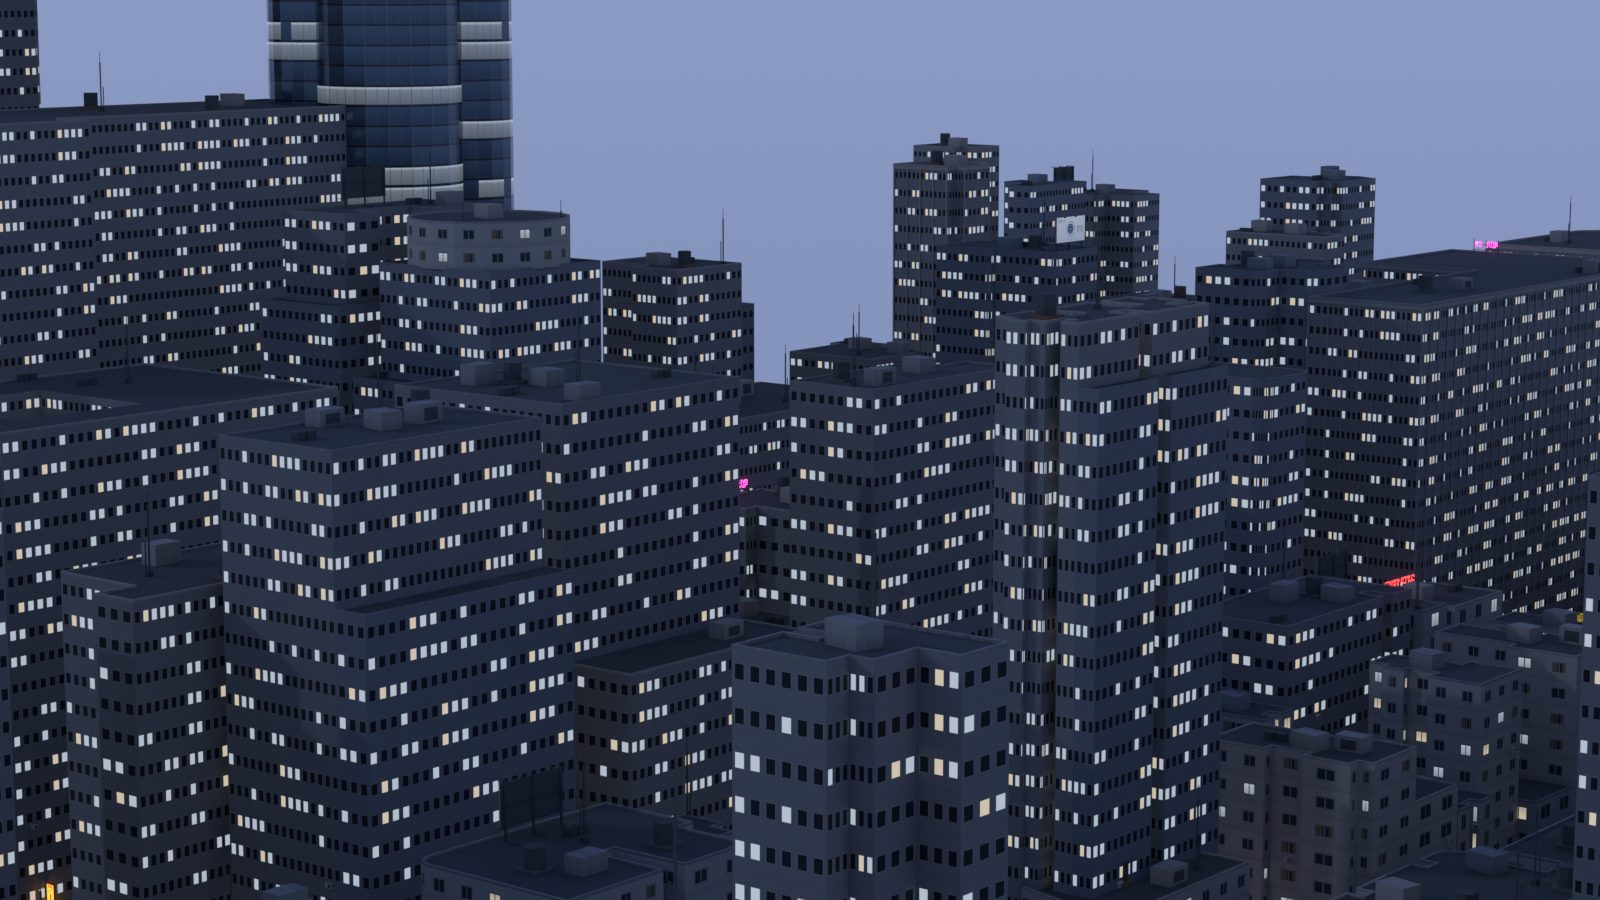
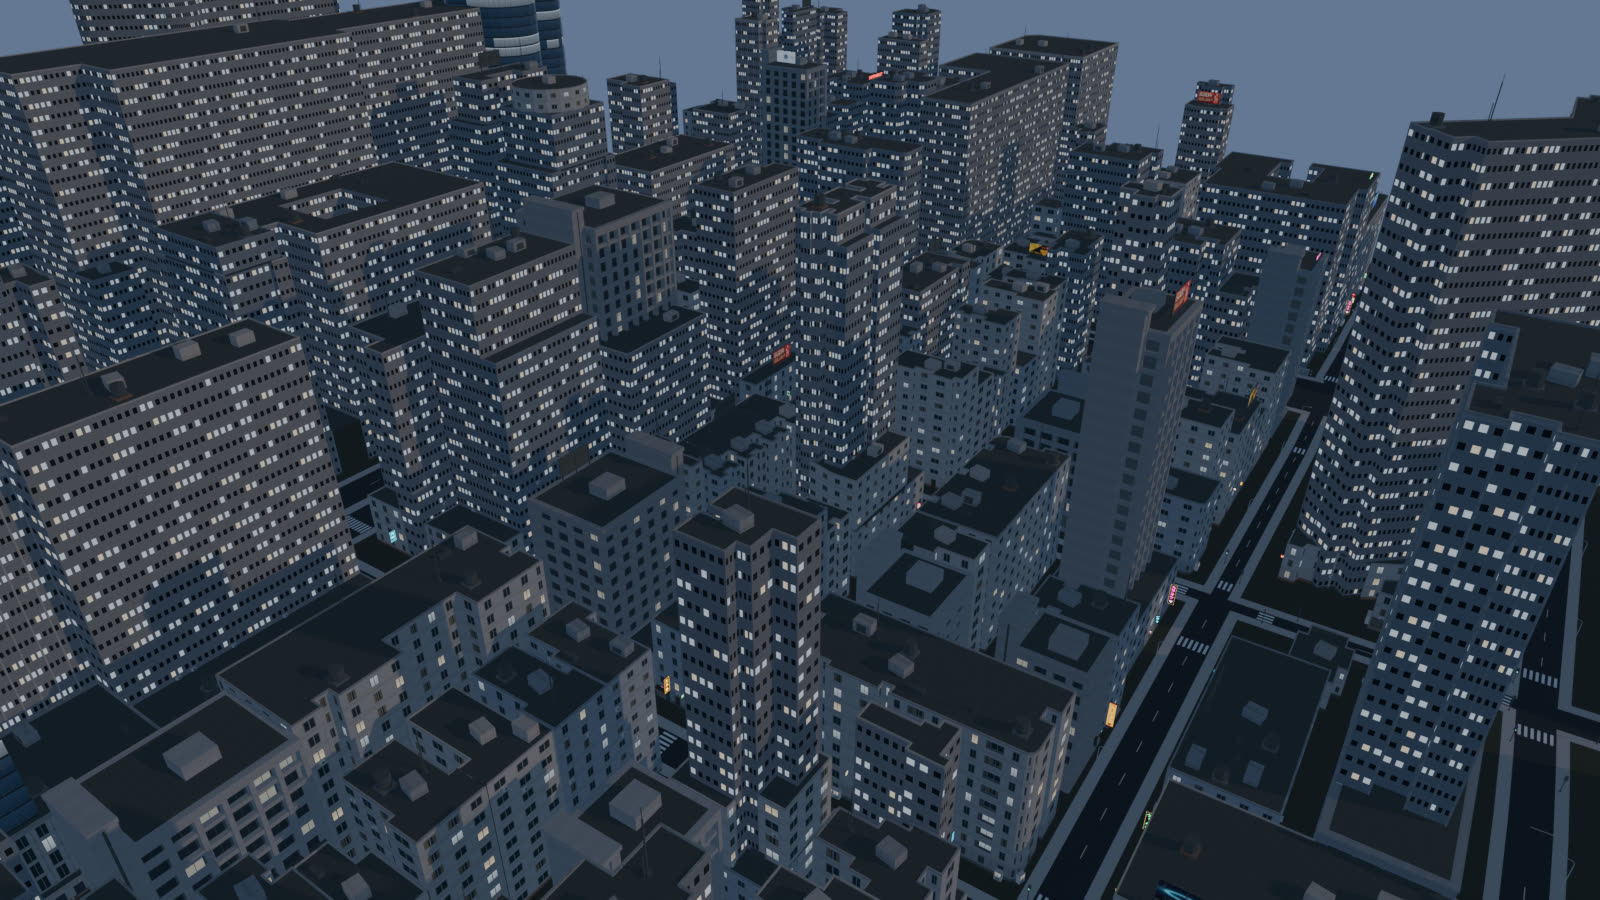
Show the street layer on the README cover
The cover showed only towers. It now shows a junction at blue hour, with
its zebra crossing, traffic signals and a vending machine, beside an
aerial view of the same area with its windows lit. Both images carry no
metadata.

diff --git a/README.md b/README.md
@@ -3,8 +3,8 @@
 **English** · [简体中文](README.zh-CN.md)
 
 <p>
-  <img src="docs/images/closeup.jpg" width="49%" alt="Close-up at blue hour: glass towers with lit floors beside a concrete tower">
-  <img src="docs/images/city.jpg" width="49%" alt="A dense block of concrete towers with lit windows at blue hour">
+  <img src="docs/images/closeup.jpg" width="49%" alt="A junction at blue hour: a painted zebra crossing, traffic signals and a vending machine between concrete blocks">
+  <img src="docs/images/city.jpg" width="49%" alt="A dense city block from above at blue hour, thousands of windows lit">
 </p>
 
 Turn a real street block from OpenStreetMap into a PS2-style city scene: concrete panel blocks, pixel-art facades and neon street signs. Pick an area on a map and get a single `city.glb` file to open in Blender, Unreal Engine or any glTF tool.

diff --git a/README.zh-CN.md b/README.zh-CN.md
@@ -3,8 +3,8 @@
 [English](README.md) · **简体中文**
 
 <p>
-  <img src="docs/images/closeup.jpg" width="49%" alt="蓝调时刻特写：亮着楼层灯的玻璃塔楼与混凝土塔楼">
-  <img src="docs/images/city.jpg" width="49%" alt="蓝调时刻的密集混凝土楼群，窗户陆续亮起">
+  <img src="docs/images/closeup.jpg" width="49%" alt="蓝调时刻的路口：斑马线、红绿灯和自动售货机，两侧是混凝土楼">
+  <img src="docs/images/city.jpg" width="49%" alt="蓝调时刻俯瞰密集街区，满城窗户亮起">
 </p>
 
 把 OpenStreetMap 上的一块真实街区变成 PS2 风格的城市场景，包括混凝土板楼、像素贴图立面和霓虹招牌。在地图上框选区域，得到一个 `city.glb`，可以直接导入 Blender、Unreal Engine 或任何支持 glTF 的工具。
